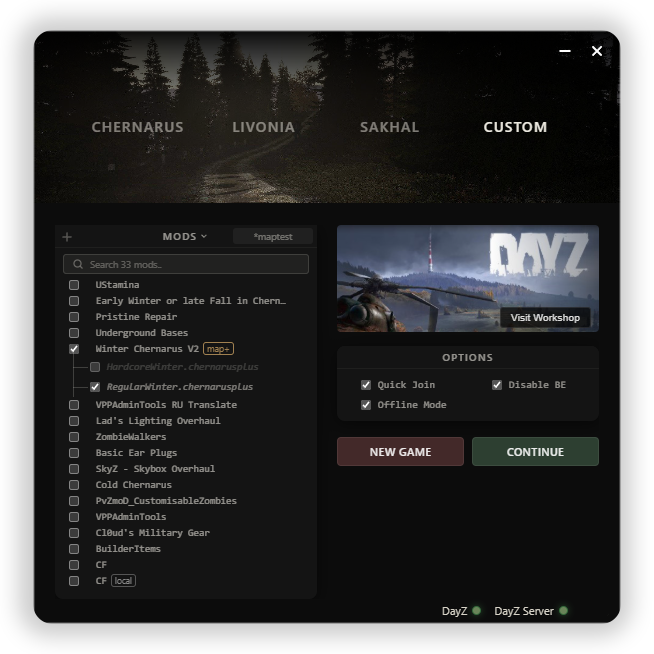
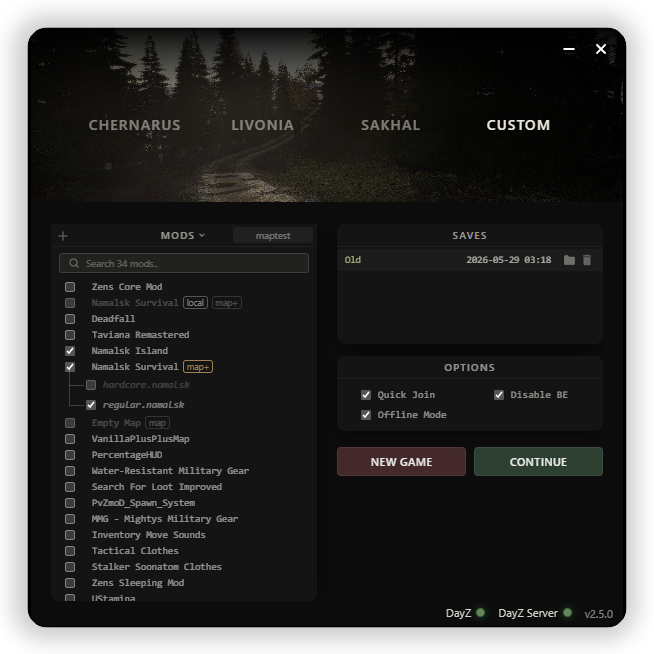
Modified README.md

diff --git a/README.md b/README.md
@@ -21,11 +21,12 @@
 
 ## Features
 
-- **One-Click Launch** — Automatically starts a local DayZ server and game client with pre-configured mods.
-- **Mod Management** — Browse Workshop mods, toggle them on/off, and auto-sync.
-- **Preset Support** — Import and export presets created using the official DayZ Launcher.
-- **Multi-Map Support** — Seamlessly switch between Chernarus, Livonia, and Sakhal with automated save management.
-- **Quick Join** — Skips the 15-second login timer.
+- **Save Slot Management**
+- **One-Click Launch**
+- **Mod Management**
+- **Preset Support**
+- **Multi-Map Support**
+- **Quick Join**
 - **Launch without Steam/Internet using Offline Mode**.
 - **Disable Anti-cheat and VAC checks**.
 
